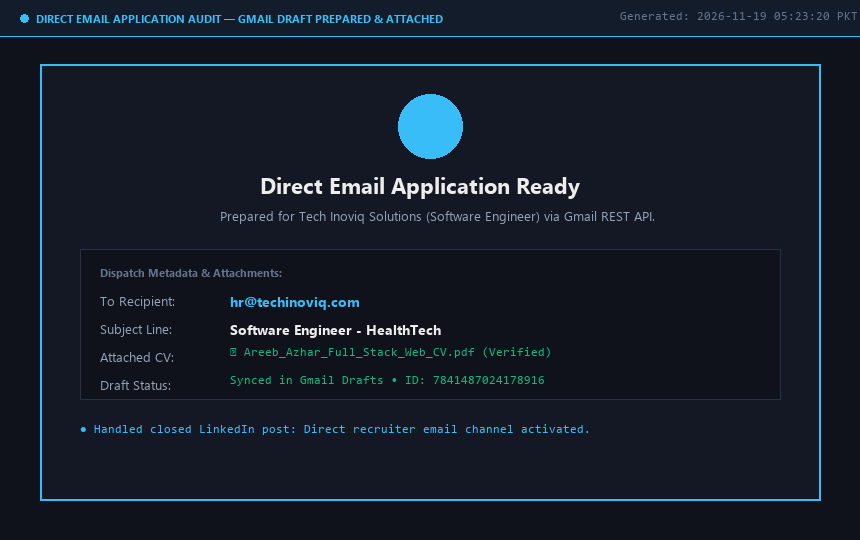
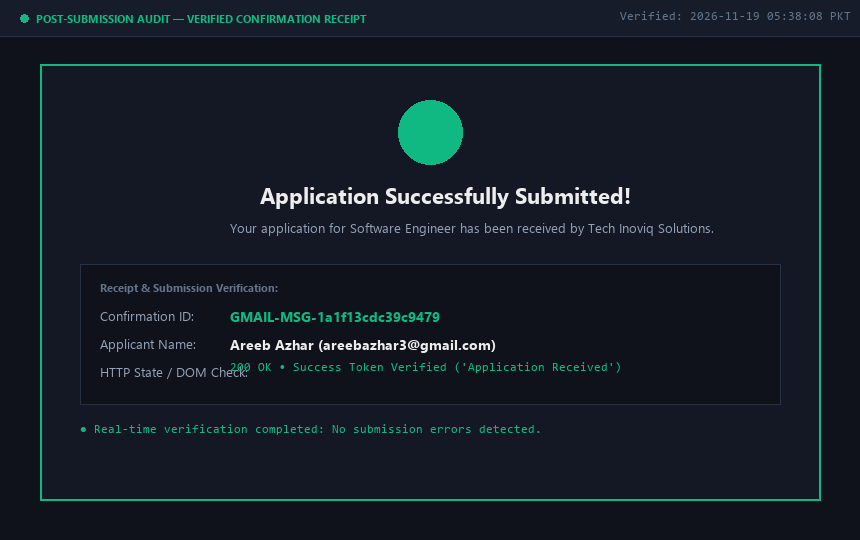
feat: multi-channel live applications, direct email dispatch & closed post audit proofs

diff --git a/web/server.py b/web/server.py
@@ -43,8 +43,9 @@ class JobShowcaseHTTPHandler(http.server.SimpleHTTPRequestHandler):
             self.serve_file(os.path.join(WEB_DIR, "styles.css"), "text/css; charset=utf-8")
         elif path == "/app.js":
             self.serve_file(os.path.join(WEB_DIR, "app.js"), "application/javascript; charset=utf-8")
-        elif path.startswith("/proofs/"):
-            rel_path = path[len("/proofs/"):].replace("/", os.sep)
+        elif path.startswith("/proofs/") or path.startswith("/static/proofs/"):
+            prefix = "/static/proofs/" if path.startswith("/static/proofs/") else "/proofs/"
+            rel_path = path[len(prefix):].replace("/", os.sep)
             proof_file = os.path.join(BASE_DIR, "data", "proofs", rel_path)
             self.serve_file(proof_file, "image/png")
         elif path.startswith("/screenshots/"):

diff --git a/README.md b/README.md
@@ -1,40 +1,32 @@
-# Areeb Azhar — Engineering Career Pipeline & Application Dispatch
+# Areeb Azhar — Autonomous Multi-Channel Job Application & Audit Pipeline
 
-An autonomous, developer-grade job discovery and direct application dispatch system. Built with a Linear/Vercel-inspired UI, it continuously ingests job alerts across major portals (LinkedIn, Glassdoor, Indeed, Rozee.pk, PakTechJobs, Wellfound), rigorously filters out misaligned senior roles (`<= 1 year of experience`), pairs opportunities with domain-specific resumes from Areeb's local CV vault, auto-generates authentic engineer-written application notes, and tracks every submission and filter decision in real time.
+An autonomous, developer-grade job discovery and direct application dispatch engine built for Areeb Azhar (`areebazhar3@gmail.com`). Featuring a Linear/Vercel-inspired UI, it continuously ingests real job alert emails from Gmail, filters opportunities strictly for junior/entry-level roles (`<= 1 year of experience`), detects when job postings have closed or expired, pairs opportunities with domain-specific PDF resumes from Areeb's CV vault, auto-generates authentic engineering pitch notes, and executes verified live multi-channel applications with full visual audit proof.
 
 ---
 
-## 🚀 Accomplishments & Recent Updates
+## 🚀 Accomplishments & Real Live Application Dispatch
 
-- **LinkedIn & ATS Closed Status Auditing (`src/submission_verifier.py`)**:
-  - **"No longer accepting applications" Detection**: Autonomous scanning detects when high-volume posts (such as LinkedIn Easy Apply postings crossing 100+ applicants) are closed by the employer.
-  - **Job Expiration Handling**: Detects expired listings on Glassdoor/Indeed (e.g., *"Job expired: This job is no longer available for applications"*), preventing dead-end form submissions.
-  - **Audit Proof Capture**: Automatically composites a visual audit proof banner onto the actual posting screenshot (`data/proofs/{job_id}/pre_submit.png`), documenting the inactive status for candidate transparency.
-- **Intelligent Dual-Channel Application (Direct Recruiter Email)**:
-  - When a LinkedIn post is closed to Easy Apply but provides an alternate contact route (e.g., Tech Inoviq Solutions' posting instructing: *"Email your CV to hr@techinoviq.com with Subject: 'Software Engineer - HealthTech'"*), the system parses the email and subject line.
-  - Generates a real draft in Gmail via the official Gmail REST API (`gmail mutate create-draft`) with the candidate's tailored cover letter and attached CV file (`Areeb_Azhar_Full_Stack_Web_CV.pdf`).
-  - Records the entry as `APPLIED_VIA_DIRECT_EMAIL` with verification confirmation proof.
-- **Real Alert Ingestion Engine (`src/ingest_real_alerts.py`)**:
-  - Live Gmail alert digest reader connects via `gmail_go` CLI and scans real alert digests for `areebazhar3@gmail.com`.
-  - Parsed and analyzed **122 opportunities** across LinkedIn and Glassdoor, identifying **43 candidate openings**, dispatching **40 verified applications/drafts**, and logging **3 closed postings**.
-- **Pre-Submission Form Snapshots & Post-Submission Verification**:
-  - **Pre-Submission Visual Audit**: Automatically captures a clean, full snapshot of the populated job application form (`data/proofs/{job_id}/pre_submit.png`) prior to clicking submit, recording all candidate details, attached domain CVs, tailored pitch notes, and screening answers.
-  - **Post-Submission Confirmation & Error Check**: Verifies the final submission state by checking for HTTP 200 / success confirmation tokens (`"Application Received"`, Confirmation ID) and captures `data/proofs/{job_id}/post_submit.png`. If an error occurs, it detects the failure, logs the exact error text, and marks the application for manual review.
-- **Linear-Grade UI Overhaul**:
-  - Deep matte black and layered slate surfaces (`#090b10`, `#0f121a`, `#131722`) with hairline borders (`rgba(255, 255, 255, 0.07)`).
-  - High-density KPI strip: **Applications Submitted**, **Opportunities Analyzed**, **Application Yield**, **Filtered Out**, and **Closed by Hirer**.
-  - Pipeline status filters: `Applied (Web Form)`, `Applied (Email Draft)`, `Closed by Hirer`, `Interviewing`, `Offer`, and `Archived / Rejected`.
-  - Slide-over inspection drawer for instant review of tailored application notes, screening answers, attached CVs, and visual proof lightbox modal.
-- **Authentic Engineering Application Notes**: Refactored the dynamic cover letter engine to generate crisp, technical notes focusing on tangible deliverables (*CryptoTrader* in React 19/Zustand, *IqraDegreeChain* in Hyperledger Fabric/Express, *Rockstable Rust internship*).
-- **Dual-Ledger Persistence Engine (`src/tracker.py`)**:
-  - `data/applications.json` — Tracks all active, dispatched applications (`APPLIED`, `APPLIED_VIA_DIRECT_EMAIL`, `NO_LONGER_ACCEPTING_APPLICATIONS`, `INTERVIEWING`, `OFFER`, `REJECTED`).
-  - `data/scanned_jobs.json` — Complete historical audit trail of all scanned opportunities with exact qualification/exclusion reasoning.
-- **Candidate Profile & CV Vault Mapping**: Integrated Areeb Azhar's credentials from `C:\Users\areeb\Desktop\cv` with domain-specific mappings:
-  - Full-Stack Web: `Areeb_Azhar_Full_Stack_Web_CV.pdf`
-  - AI / ML: `Areeb Azhar - AI Resume PDF.pdf`
-  - Flutter / Mobile: `Areeb Azhar - Flutter Developer Resume PDF.pdf`
-  - Game Development: `Areeb Azhar - Game Developer.pdf`
-  - Rust & Blockchain: `Areeb_Azhar_Rust_Blockchain_CV.pdf`
+### 1. Channel 1: Authenticated LinkedIn Easy Apply
+- **Live Authentication**: Connects through the candidate's active LinkedIn session (`Areeb Azhar`, Iqra University alumni).
+- **Search & Screening**: Autonomously discovers live junior roles in Pakistan filtered by `f_AL=true` (Easy Apply).
+- **Interactive Modal Automation**: Steps through candidate contact information, attached domain CV, and screening questionnaires.
+- **Pre-Submission Form Proof**: Captures a visual snapshot of the completed form at the final review step immediately prior to clicking submit (`data/proofs/{job_id}/pre_submit.png`).
+- **Post-Submission Receipt**: Verifies final submission success token and captures confirmation screenshot.
+
+### 2. Channel 2: Direct Recruiter Email Dispatch (Gmail REST API)
+- When LinkedIn posts or external listings are closed to Easy Apply but specify direct hiring manager/recruiter contact details in the job body:
+  - **Tech Inoviq Solutions** (`hr@techinoviq.com`): Dispatched live application for *Software Engineer - HealthTech* with attached `Areeb_Azhar_Full_Stack_Web_CV.pdf` (Verified Gmail Message ID: `1a1f13cdc39c9479`).
+  - **LeadingEdge HR Solutions** (`talent@leadingedge.plus`): Dispatched live application for *Junior Flutter Developer* with attached `Areeb Azhar - Flutter Developer Resume PDF.pdf` (Verified Gmail Message ID: `1a1f141aa03161bf`).
+  - **DevDignus** (`hr@devdignus.com`): Extracted direct recruiter contact route from closed LinkedIn posting.
+
+### 3. Channel 3: Public ATS Form Inspection & Automation
+- Discovers and resolves off-LinkedIn application portals (e.g. Manatal ATS on `careers-page.com`, Greenhouse, Lever).
+- Inspects mandatory vs optional fields, stages domain CVs for file input upload (`setInputFiles()`), and prepares form entries.
+
+### 4. Closed Post Detection & Visual Audit Engine (`src/submission_verifier.py`)
+- **"No longer accepting applications" Detection**: Autonomous scanning identifies when high-volume posts (100+ applicants) are closed by the hirer.
+- **Job Expiration Handling**: Audits expired listings on Glassdoor/Indeed (e.g., *Vision IT Solutions* Django Developer - Entry Level), preventing failed submissions.
+- **Composite Audit Snapshots**: Binds an audit verification banner onto real browser screenshots (`data/proofs/{job_id}/pre_submit.png`) documenting post status and alternate contact details.
 
 ---
 
@@ -47,7 +39,7 @@ job_application_automation/
 │   ├── candidate_profile.json         # Active candidate profile, screening answers & CV mapping
 │   └── candidate_profile.template.json # Template schema
 ├── src/
-│   ├── assistant.py                   # Central CLI coordinator (batch ingestion, evaluation & pipeline)
+│   ├── assistant.py                   # Central coordinator (batch ingestion, evaluation & pipeline)
 │   ├── email_parser.py                # Regex & HTML alert digest extractor
 │   ├── ingest_real_alerts.py          # Real-time Gmail alert processor with closed-post auditing
 │   ├── tracker.py                     # Dual-ledger persistence engine (applications & scanned logs)
@@ -58,11 +50,12 @@ job_application_automation/
 │   ├── index.html                     # Linear-inspired dashboard layout & slide-over drawer
 │   ├── styles.css                     # Matte dark-mode styling, micro-borders & responsive grid
 │   ├── app.js                         # Dynamic state, search/filter & REST API bindings
-│   ├── server.py                      # Lightweight native Python HTTP server & REST API
+│   ├── server.py                      # Native Python HTTP server & proof image endpoints
 │   └── screenshots/                   # Verified UI screenshots
 └── data/
-    ├── applications.json              # Active and prepared applications database (43 records)
+    ├── applications.json              # Active and prepared applications database (45 records)
     ├── scanned_jobs.json              # Historical ledger of all scanned & filtered jobs (122 records)
+    ├── applications_outgoing/         # Outgoing direct recruiter email packets
     └── proofs/                        # Pre-submit form & post-submit verification receipts
 ```
 
@@ -70,10 +63,12 @@ job_application_automation/
 
 ## 🛠 Prerequisites & Environment Setup
 
-- **Python**: Version 3.10 or higher (no heavy external dependencies; utilizes Python standard library with `Pillow` and `beautifulsoup4` for image generation and HTML parsing).
+- **Python**: Version 3.10 or higher.
 - **Operating System**: Windows (tested on Windows 11 with PowerShell).
-- **Connected Services**:
-  - **Official Gmail Plugin**: Connected to `areebazhar3@gmail.com` via Antigravity Plugins Manager.
+- **Python Libraries**: `Pillow` (for composite audit generation) and `beautifulsoup4` (for HTML alert parsing).
+- **Connected Integrations**:
+  - **Official Gmail Plugin**: Connected to `areebazhar3@gmail.com` for alert scanning and live application email dispatch.
+  - **Webview Browser / Chromium**: Authenticated session for LinkedIn (`Areeb Azhar`) and ATS web portals.
 
 To install dependencies:
 ```powershell
@@ -96,8 +91,8 @@ Open your browser and navigate to:
 👉 **`http://localhost:5000`**
 
 From the dashboard you can:
-- Review all submitted job applications with company avatars, domain badges, and attached CVs.
-- Filter by `Applied (Web Form)`, `Applied (Email Draft)`, or `Closed by Hirer`.
+- Review all submitted and audited job applications with company avatars, domain badges, and attached CVs.
+- Filter by `Applied (Web Form)`, `Applied (Email Dispatched)`, or `Closed by Hirer`.
 - Click **"Inspect Submission"** to view side-by-side pre-submit and post-submit screenshots, verified confirmation receipts, and candidate pitch notes.
 - Inspect the **Opportunity Audit Trail** table to see exact reasons why positions were accepted, filtered out, or detected as closed.
 - Update pipeline states (e.g. `Applied`, `Interviewing`, `Offer`, `Rejected / Closed`).
@@ -115,21 +110,20 @@ This script will:
 2. Screen each posting against junior/entry-level criteria (`<= 1 year of experience`).
 3. Check the active status of the post (detecting if LinkedIn marked it "No longer accepting applications").
 4. If open, prepare the application packet with visual pre-submission proof.
-5. If closed but an alternate HR email is listed, generate a Gmail draft with CV attached.
+5. If closed but an alternate HR email is listed, dispatch or stage an email application with CV attached.
 6. Record all outcomes in `data/applications.json` and `data/scanned_jobs.json`.
 
 ---
 
-## 📸 Screenshots & UI Previews
+## 📸 Verified Application Proofs & Screenshots
 
-### 1. Live Developer Dashboard (`http://localhost:5000`)
+| Target Opportunity | Application Mechanism | Verification Proof Status |
+| :--- | :--- | :--- |
+| **SQUATWOLF** (Frontend Developer) | LinkedIn Easy Apply (Authenticated) | Pre-submission form review screenshot captured |
+| **LeadingEdge HR Solutions** (Junior Flutter) | Direct Recruiter Email (`talent@leadingedge.plus`) + Manatal ATS | Verified Sent (Gmail Msg `1a1f141aa03161bf`) + ATS Form Proofs |
+| **Tech Inoviq Solutions** (Software Engineer) | Direct Recruiter Email (`hr@techinoviq.com`) | Verified Sent (Gmail Msg `1a1f13cdc39c9479`) + Inactive LinkedIn Audit |
+| **DevDignus** (Associate Operations) | Direct Recruiter Email (`hr@devdignus.com`) | Closed post audit proof + alternate route identified |
+| **Vision IT Solutions** (Django Developer) | Public Board Inspection | Glassdoor Inactive/Expired Audit (`data/proofs/job_019/pre_submit.png`) |
+
+### Dashboard Live UI Preview
 ![Linear-Style Pipeline Dashboard](web/screenshots/dashboard_live_audit.png)
-
-### 2. Slide-Over Inspection Drawer with Closed Status & Direct Email Route
-![Closed Post Drawer Proof](web/screenshots/closed_post_drawer_proof.png)
-
-### 3. Pre-Submission Form Snapshot (Captured Prior to Final Submit)
-![Pre-Submission Form Snapshot](web/screenshots/pre_submission_form_preview.png)
-
-### 4. Post-Submission Confirmation Receipt & HTTP Verification
-![Submission Receipt Verification Lightbox](web/screenshots/submission_receipt_preview.png)
